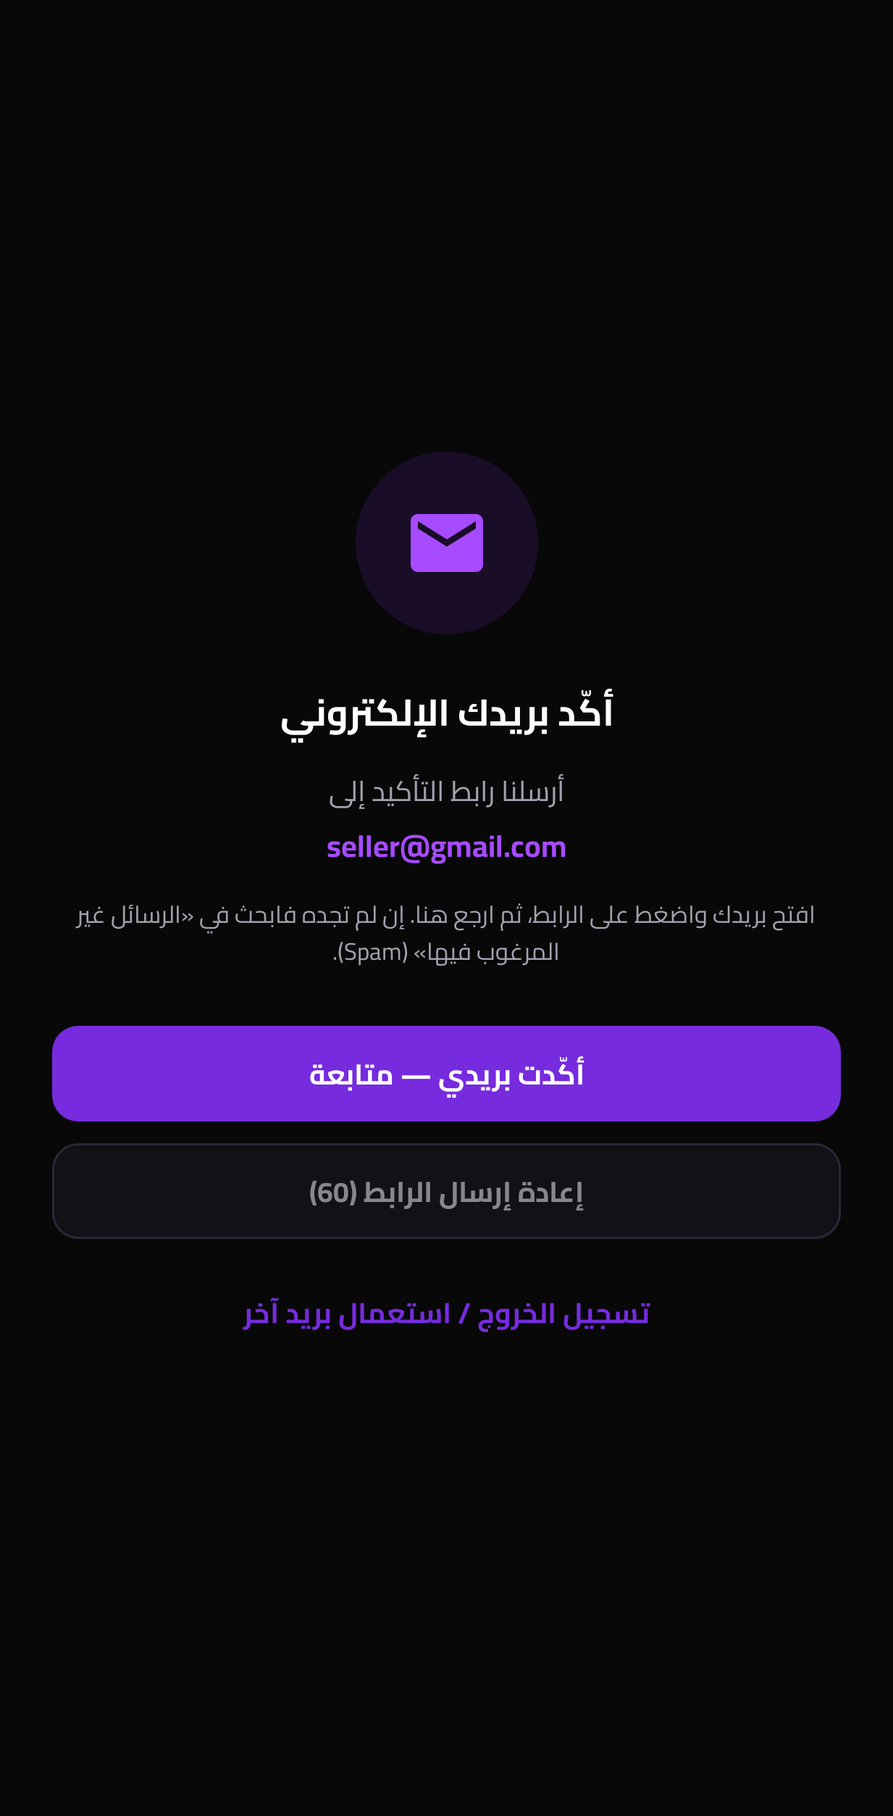
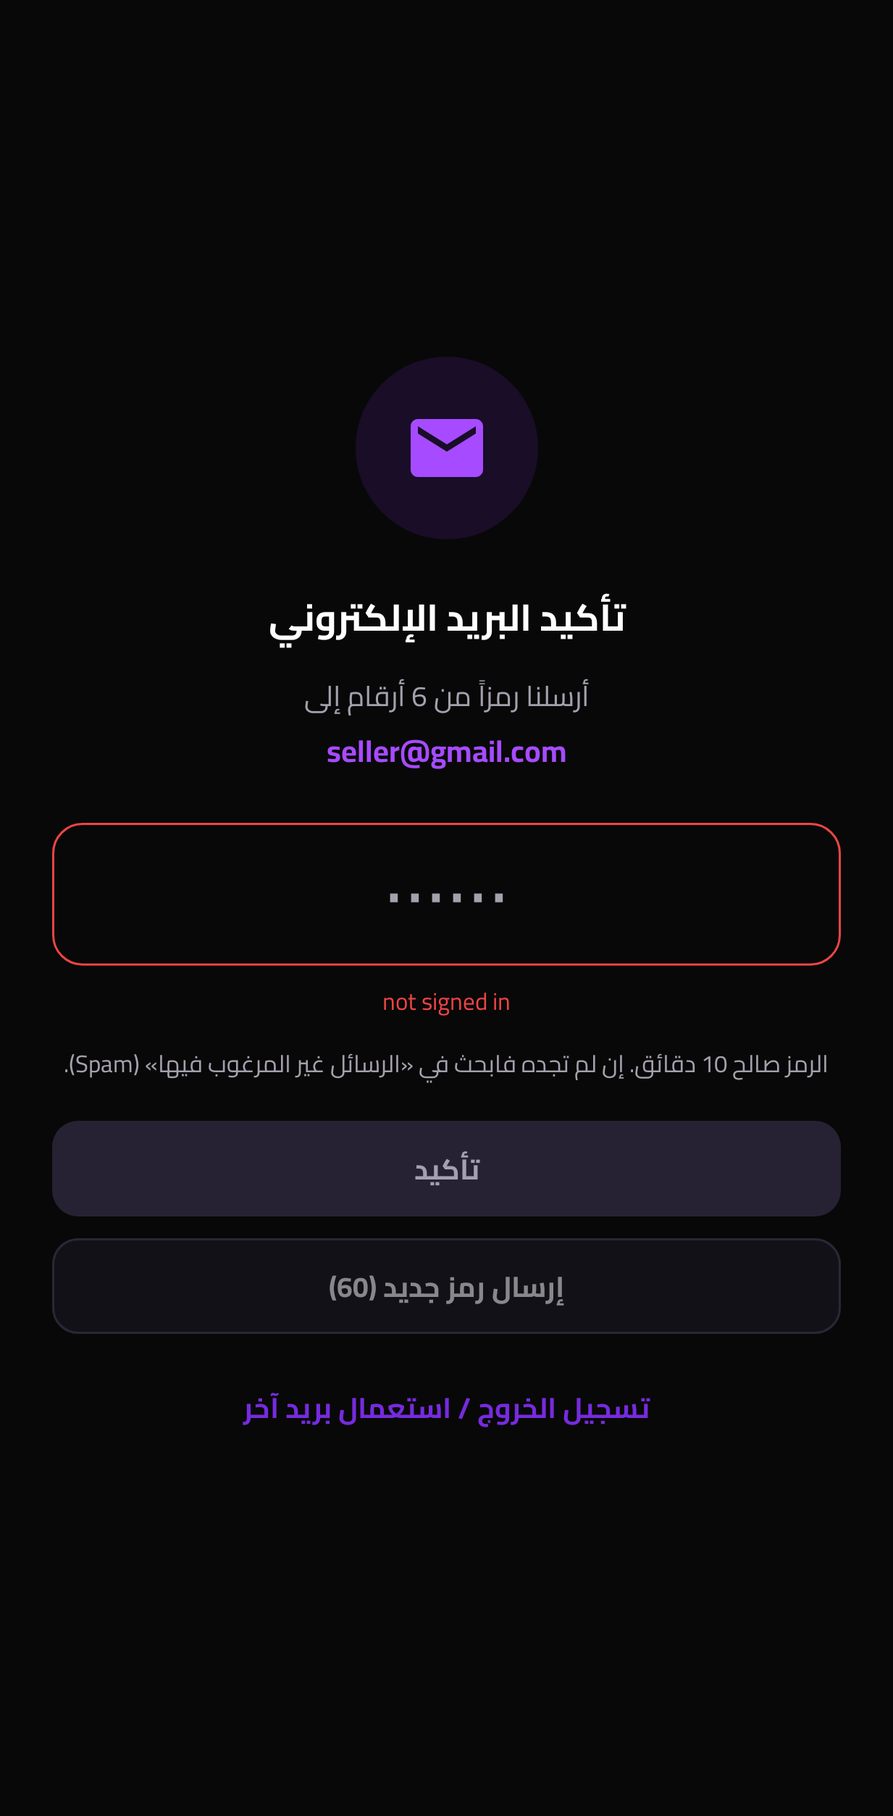
6-digit e-mail verification code at sign-up (Brevo + worker), link fallback
- Worker /otp/send and /otp/verify: code hashed in emailOtps/{uid}, 10 min TTL,
  5 attempts, 1/min and 6/hour send limits, recipient taken from the verified ID
  token; on success the Firebase account is marked verified (Identity Toolkit).
- App: code entry screen (auto-submit), resend with cooldown; falls back to the
  Firebase link when the mail service is not configured.
- setup-email.sh for Cloud Shell; 23 worker tests.

Claude-Session: https://claude.ai/code/session_01Dmminv6J6ivYhR2jtxdx3e

diff --git a/app/src/main/java/com/medk/app/ui/auth/AuthScreens.kt b/app/src/main/java/com/medk/app/ui/auth/AuthScreens.kt
@@ -384,7 +384,10 @@ fun AuthFailedScreen(message: String, onRetry: () -> Unit, onSignOut: () -> Unit
 }
 
 
-/** After e-mail sign-up: the app stays locked until the link in the confirmation e-mail is opened. */
+/**
+ * After e-mail sign-up: a 6-digit code is e-mailed; the app stays locked until it is typed.
+ * (Falls back to the Firebase confirmation link when the server has no mail service.)
+ */
 @Composable
 fun VerifyEmailScreen(email: String) {
     val c = MedkApp.container
@@ -392,45 +395,85 @@ fun VerifyEmailScreen(email: String) {
     val toast = com.medk.app.ui.components.LocalToast.current
     var busy by remember { mutableStateOf(false) }
     var cooldown by remember { mutableStateOf(60) }
-    LaunchedEffect(Unit) {   // the account unlocks by itself a few seconds after the link is opened
+    var codeMode by remember { mutableStateOf<Boolean?>(null) }   // null = sending
+    var code by remember { mutableStateOf("") }
+    var error by remember { mutableStateOf<String?>(null) }
+    fun send() {
+        scope.launch {
+            codeMode = null
+            runCatching { c.auth.sendEmailCode() }
+                .onSuccess { codeMode = it; cooldown = 60; error = null }
+                .onFailure { codeMode = true; error = it.friendly() }
+        }
+    }
+    fun confirm() {
+        if (code.length != 6 || busy) return
+        busy = true
+        scope.launch {
+            runCatching { c.auth.confirmEmailCode(code) }.onFailure { error = it.friendly(); code = "" }
+            busy = false
+        }
+    }
+    LaunchedEffect(Unit) { send() }
+    LaunchedEffect(Unit) {
         while (true) {
             kotlinx.coroutines.delay(1000)
             if (cooldown > 0) cooldown--
-            if (cooldown % 5 == 0) runCatching { c.auth.checkEmailVerified() }
+            if (codeMode == false && cooldown % 5 == 0) runCatching { c.auth.checkEmailVerified() }   // link mode
         }
     }
-    Column(Modifier.fillMaxSize().background(MaterialTheme.colorScheme.background).statusBarsPadding().navigationBarsPadding()
+    Column(Modifier.fillMaxSize().background(MaterialTheme.colorScheme.background).statusBarsPadding().navigationBarsPadding().imePadding()
         .verticalScroll(rememberScrollState()).padding(24.dp), verticalArrangement = Arrangement.Center,
         horizontalAlignment = Alignment.CenterHorizontally) {
         Box(Modifier.size(84.dp).clip(CircleShape).background(MedkColors.Purple.copy(.15f)), contentAlignment = Alignment.Center) {
             Icon(Icons.Filled.Email, null, tint = MedkColors.Violet, modifier = Modifier.size(40.dp))
         }
         Spacer(Modifier.height(20.dp))
-        Text("أكّد بريدك الإلكتروني", style = MaterialTheme.typography.headlineSmall)
+        Text("تأكيد البريد الإلكتروني", style = MaterialTheme.typography.headlineSmall)
         Spacer(Modifier.height(8.dp))
-        Text("أرسلنا رابط التأكيد إلى", style = MaterialTheme.typography.bodyMedium, color = MaterialTheme.colorScheme.onSurfaceVariant)
+        Text(if (codeMode == false) "أرسلنا رابط التأكيد إلى" else "أرسلنا رمزاً من 6 أرقام إلى",
+            style = MaterialTheme.typography.bodyMedium, color = MaterialTheme.colorScheme.onSurfaceVariant)
         Text(email, style = MaterialTheme.typography.titleMedium, color = MedkColors.Violet)
-        Spacer(Modifier.height(8.dp))
-        Text("افتح بريدك واضغط على الرابط، ثم ارجع هنا. إن لم تجده فابحث في «الرسائل غير المرغوب فيها» (Spam).",
-            style = MaterialTheme.typography.bodySmall, color = MaterialTheme.colorScheme.onSurfaceVariant,
-            textAlign = androidx.compose.ui.text.style.TextAlign.Center)
-        Spacer(Modifier.height(24.dp))
-        PrimaryButton("أكّدت بريدي — متابعة", {
-            busy = true
-            scope.launch {
-                val ok = runCatching { c.auth.checkEmailVerified() }.getOrElse { toast(it.friendly()); null }
-                if (ok == false) toast("لم يتم التأكيد بعد. افتح الرابط في البريد أولاً.")
-                busy = false
+        Spacer(Modifier.height(20.dp))
+        when (codeMode) {
+            null -> androidx.compose.material3.CircularProgressIndicator(color = MedkColors.Violet)
+            true -> {
+                androidx.compose.material3.OutlinedTextField(
+                    value = code,
+                    onValueChange = { v -> code = v.filter { it.isDigit() }.take(6); error = null; if (code.length == 6) confirm() },
+                    modifier = Modifier.fillMaxWidth(), singleLine = true, enabled = !busy,
+                    placeholder = { Text("• • • • • •", Modifier.fillMaxWidth(), textAlign = androidx.compose.ui.text.style.TextAlign.Center) },
+                    textStyle = MaterialTheme.typography.headlineMedium.copy(textAlign = androidx.compose.ui.text.style.TextAlign.Center,
+                        letterSpacing = androidx.compose.ui.unit.TextUnit(10f, androidx.compose.ui.unit.TextUnitType.Sp)),
+                    keyboardOptions = androidx.compose.foundation.text.KeyboardOptions(keyboardType = androidx.compose.ui.text.input.KeyboardType.NumberPassword),
+                    isError = error != null, shape = RoundedCornerShape(14.dp),
+                )
+                error?.let { Text(it, color = MedkColors.Danger, style = MaterialTheme.typography.bodySmall, modifier = Modifier.padding(top = 6.dp)) }
+                Spacer(Modifier.height(8.dp))
+                Text("الرمز صالح 10 دقائق. إن لم تجده فابحث في «الرسائل غير المرغوب فيها» (Spam).",
+                    style = MaterialTheme.typography.bodySmall, color = MaterialTheme.colorScheme.onSurfaceVariant,
+                    textAlign = androidx.compose.ui.text.style.TextAlign.Center)
+                Spacer(Modifier.height(16.dp))
+                PrimaryButton("تأكيد", { confirm() }, loading = busy, enabled = code.length == 6)
             }
-        }, loading = busy)
+            false -> {
+                Text("افتح بريدك واضغط على الرابط، ثم ارجع هنا. إن لم تجده فابحث في «الرسائل غير المرغوب فيها» (Spam).",
+                    style = MaterialTheme.typography.bodySmall, color = MaterialTheme.colorScheme.onSurfaceVariant,
+                    textAlign = androidx.compose.ui.text.style.TextAlign.Center)
+                Spacer(Modifier.height(16.dp))
+                PrimaryButton("أكّدت بريدي — متابعة", {
+                    busy = true
+                    scope.launch {
+                        val ok = runCatching { c.auth.checkEmailVerified() }.getOrElse { toast(it.friendly()); null }
+                        if (ok == false) toast("لم يتم التأكيد بعد. افتح الرابط في البريد أولاً.")
+                        busy = false
+                    }
+                }, loading = busy)
+            }
+        }
         Spacer(Modifier.height(10.dp))
-        SecondaryButton(if (cooldown > 0) "إعادة إرسال الرابط (${cooldown})" else "إعادة إرسال الرابط", {
-            scope.launch {
-                runCatching { c.auth.resendVerification() }
-                    .onSuccess { toast("تم إرسال رابط جديد إلى $email"); cooldown = 60 }
-                    .onFailure { toast(it.friendly()) }
-            }
-        }, enabled = cooldown == 0)
+        SecondaryButton(if (cooldown > 0) "إرسال رمز جديد (${cooldown})" else "إرسال رمز جديد", { code = ""; send() },
+            enabled = cooldown == 0 && codeMode != null)
         Spacer(Modifier.height(10.dp))
         TextButton({ scope.launch { c.auth.signOut(c.context) } }) { Text("تسجيل الخروج / استعمال بريد آخر") }
     }

diff --git a/firebase/push-worker/src/index.js b/firebase/push-worker/src/index.js
@@ -21,6 +21,15 @@ export default {
   async fetch(req, env, ctx) {
     const url = new URL(req.url);
     if (req.method === "GET" && url.pathname === "/") return json({ ok: true, service: "medk-push" });
+    if (req.method === "POST" && (url.pathname === "/otp/send" || url.pathname === "/otp/verify")) {
+      try {
+        if (!env.SA_KEY || !env.PROJECT_ID) throw new HttpError(500, "server_not_configured");
+        const user = await verifyIdTokenFull((req.headers.get("authorization") || "").replace(/^Bearer\s+/i, ""), env.PROJECT_ID);
+        const body = await req.json().catch(() => ({}));
+        const fs = new Firestore(env);
+        return json(url.pathname === "/otp/send" ? await sendOtp(env, fs, user) : await verifyOtp(env, fs, user, body));
+      } catch (e) { return json({ error: e.message || String(e) }, e.status || 500); }
+    }
     if (req.method !== "POST" || url.pathname !== "/notify") return json({ error: "not_found" }, 404);
     try {
       if (!env.SA_KEY || !env.PROJECT_ID) throw new HttpError(500, "server_not_configured");
@@ -240,7 +249,8 @@ const b64urlJson = (o) => b64url(new TextEncoder().encode(JSON.stringify(o)));
 const fromB64url = (s) => Uint8Array.from(atob(s.replace(/-/g, "+").replace(/_/g, "/").padEnd(Math.ceil(s.length / 4) * 4, "=")), (c) => c.charCodeAt(0));
 
 let jwksCache = { at: 0, keys: [] };
-async function verifyIdToken(token, projectId) {
+async function verifyIdToken(token, projectId) { return (await verifyIdTokenFull(token, projectId)).sub; }
+async function verifyIdTokenFull(token, projectId) {
   const parts = (token || "").split(".");
   if (parts.length !== 3) throw new HttpError(401, "unauthenticated");
   let header, payload;
@@ -260,7 +270,7 @@ async function verifyIdToken(token, projectId) {
   const now = Math.floor(Date.now() / 1000);
   if (!ok || payload.aud !== projectId || payload.iss !== `https://securetoken.google.com/${projectId}` ||
       !payload.sub || payload.exp < now || payload.iat > now + 300) throw new HttpError(401, "unauthenticated");
-  return payload.sub;
+  return payload;
 }
 
 let tokenCache = { value: null, exp: 0 };
@@ -270,7 +280,7 @@ async function accessToken(env) {
   const now = Math.floor(Date.now() / 1000);
   const unsigned = `${b64urlJson({ alg: "RS256", typ: "JWT" })}.${b64urlJson({
     iss: sa.client_email, aud: "https://oauth2.googleapis.com/token", iat: now, exp: now + 3600,
-    scope: "https://www.googleapis.com/auth/datastore https://www.googleapis.com/auth/firebase.messaging",
+    scope: "https://www.googleapis.com/auth/datastore https://www.googleapis.com/auth/firebase.messaging https://www.googleapis.com/auth/identitytoolkit",
   })}`;
   const pem = sa.private_key.replace(/-----[^-]+-----/g, "").replace(/\s+/g, "");
   const key = await crypto.subtle.importKey("pkcs8", Uint8Array.from(atob(pem), (c) => c.charCodeAt(0)),
@@ -285,4 +295,75 @@ async function accessToken(env) {
   if (!j.access_token) throw new HttpError(502, "google_auth_failed");
   tokenCache = { value: j.access_token, exp: Date.now() + (j.expires_in || 3600) * 1000 };
   return j.access_token;
+}
+
+// ============================================================================================== e-mail code (OTP)
+//
+// Sign-up with e-mail + password: a 6-digit code is e-mailed (Brevo, free tier) and, once typed in the app, the
+// server marks the Firebase account as verified (Identity Toolkit admin API). Codes are stored hashed in
+// emailOtps/{uid} (no client access), expire after 10 minutes, allow 5 attempts, and sending is rate-limited.
+// Secrets: BREVO_API_KEY, MAIL_FROM (verified sender address in Brevo).
+
+const OTP_TTL_MS = 10 * 60 * 1000, OTP_COOLDOWN_MS = 55 * 1000, OTP_MAX_PER_HOUR = 6, OTP_MAX_ATTEMPTS = 5;
+
+async function sha256Hex(text) {
+  const buf = await crypto.subtle.digest("SHA-256", new TextEncoder().encode(text));
+  return [...new Uint8Array(buf)].map((b) => b.toString(16).padStart(2, "0")).join("");
+}
+
+async function sendOtp(env, fs, user) {
+  if (!env.BREVO_API_KEY || !env.MAIL_FROM) throw new HttpError(503, "otp_not_configured");
+  if (user.email_verified) return { ok: true, verified: true };
+  const email = String(user.email || "");
+  if (!email) throw new HttpError(400, "no_email");
+  const path = `emailOtps/${user.sub}`;
+  const prev = await fs.get(path);
+  const now = Date.now();
+  if (prev && now - Date.parse(prev.sentAt || 0) < OTP_COOLDOWN_MS) throw new HttpError(429, "otp_wait");
+  const windowStart = prev && now - Date.parse(prev.windowStart || 0) < 3600_000 ? prev.windowStart : new Date(now).toISOString();
+  const sends = prev && prev.windowStart === windowStart ? Number(prev.sends || 0) : 0;
+  if (sends >= OTP_MAX_PER_HOUR) throw new HttpError(429, "otp_too_many");
+  const code = String(crypto.getRandomValues(new Uint32Array(1))[0] % 1000000).padStart(6, "0");
+  await fs.commit([{ update: { name: fs.name(path), fields: encodeFields({
+    hash: await sha256Hex(`${user.sub}:${code}`), email, expiresAt: new Date(now + OTP_TTL_MS).toISOString(),
+    attempts: 0, sentAt: new Date(now).toISOString(), windowStart, sends: sends + 1 }) } }]);
+  const r = await fetch("https://api.brevo.com/v3/smtp/email", {
+    method: "POST",
+    headers: { "api-key": env.BREVO_API_KEY, "content-type": "application/json", accept: "application/json" },
+    body: JSON.stringify({
+      sender: { name: "MED-K", email: env.MAIL_FROM }, to: [{ email }],
+      subject: `رمز التحقق MED-K: ${code}`,
+      htmlContent: `<div dir="rtl" style="font-family:Tahoma,Arial,sans-serif;background:#0a0a0c;color:#fff;padding:28px;border-radius:14px;max-width:460px;margin:auto">
+<h2 style="margin:0 0 8px;color:#a855f7">MED-K</h2><p style="margin:0 0 18px;color:#ccc">رمز تأكيد بريدك الإلكتروني:</p>
+<div style="font-size:34px;letter-spacing:10px;font-weight:bold;background:#1c1530;border-radius:10px;padding:14px;text-align:center">${code}</div>
+<p style="color:#999;font-size:13px;margin-top:18px">صالح لمدة 10 دقائق. إن لم تطلب هذا الرمز فتجاهل الرسالة.</p></div>`,
+      textContent: `رمز التحقق MED-K: ${code} (صالح 10 دقائق)`,
+    }),
+  });
+  if (!r.ok) throw new HttpError(502, `mail_${r.status}`);
+  return { ok: true, sent: true };
+}
+
+async function verifyOtp(env, fs, user, body) {
+  if (user.email_verified) return { ok: true, verified: true };
+  const code = String(body.code || "").trim();
+  if (!/^\d{6}$/.test(code)) throw new HttpError(400, "otp_invalid");
+  const path = `emailOtps/${user.sub}`;
+  const o = await fs.get(path);
+  if (!o || o.email !== user.email) throw new HttpError(400, "otp_expired");
+  if (Date.now() > Date.parse(o.expiresAt)) throw new HttpError(400, "otp_expired");
+  if (Number(o.attempts || 0) >= OTP_MAX_ATTEMPTS) throw new HttpError(429, "otp_locked");
+  if ((await sha256Hex(`${user.sub}:${code}`)) !== o.hash) {
+    await fs.commit([{ update: { name: fs.name(path), fields: encodeFields({}) }, updateMask: { fieldPaths: [] },
+      updateTransforms: [{ fieldPath: "attempts", increment: { integerValue: "1" } }] }]);
+    throw new HttpError(400, "otp_invalid");
+  }
+  const at = await accessToken(env);
+  const r = await fetch(`https://identitytoolkit.googleapis.com/v1/projects/${env.PROJECT_ID}/accounts:update`, {
+    method: "POST", headers: { authorization: `Bearer ${at}`, "content-type": "application/json" },
+    body: JSON.stringify({ localId: user.sub, emailVerified: true }),
+  });
+  if (!r.ok) throw new HttpError(502, `auth_${r.status}`);
+  await fs.delete(path).catch(() => {});
+  return { ok: true, verified: true };
 }

diff --git a/app/src/main/java/com/medk/app/data/AuthRepository.kt b/app/src/main/java/com/medk/app/data/AuthRepository.kt
@@ -194,8 +194,7 @@ open class AuthRepository(private val c: AppContainer) {
         val auth = c.firebaseAuth ?: error("Firebase not configured")
         val result = auth.createUserWithEmailAndPassword(email.trim(), password).await()
         result.user?.updateProfile(userProfileChangeRequest { displayName = name.trim() })?.await()
-        runCatching { result.user?.sendEmailVerification()?.await() }
-        finishSignIn(name.trim())
+        finishSignIn(name.trim())   // → VerifyEmail screen, which e-mails the 6-digit code
     }
 
     open suspend fun sendPasswordReset(email: String) {
@@ -258,6 +257,24 @@ open class AuthRepository(private val c: AppContainer) {
 
     open suspend fun resendVerification() {
         c.firebaseAuth?.currentUser?.sendEmailVerification()?.await() ?: error("not signed in")
+    }
+
+    /**
+     * E-mails a 6-digit code (MED-K server). Returns true in code mode; false when the server has no mail service,
+     * in which case the classic Firebase confirmation link is sent instead.
+     */
+    open suspend fun sendEmailCode(): Boolean = try {
+        c.push.post("/otp/send", org.json.JSONObject()); true
+    } catch (e: Exception) {
+        val m = e.message.orEmpty()
+        if (m.contains("otp_not_configured") || m.contains("server_not_configured") || m.contains("not_found")) { resendVerification(); false }
+        else throw e
+    }
+
+    /** Checks the typed code on the server, which marks the account verified; then enters the app. */
+    open suspend fun confirmEmailCode(code: String) {
+        c.push.post("/otp/verify", org.json.JSONObject().put("code", code.trim()))
+        if (!checkEmailVerified()) error("otp_invalid")
     }
 
     private suspend fun finishSignIn(name: String?) {

diff --git a/app/src/main/java/com/medk/app/data/PushRepository.kt b/app/src/main/java/com/medk/app/data/PushRepository.kt
@@ -86,5 +86,27 @@ open class PushRepository(private val c: AppContainer) {
         }
     }
 
+    /** Authenticated call to the MED-K server. Throws with the server's error code (e.g. "otp_invalid"). */
+    open suspend fun post(path: String, body: JSONObject): JSONObject {
+        if (!enabled) error("server_not_configured")
+        val base = serverUrl ?: c.firestore.document("config/push").get().await().getString("url")?.trimEnd('/')?.also { serverUrl = it }
+            ?: error("otp_not_configured")
+        val idToken = c.firebaseAuth?.currentUser?.getIdToken(false)?.await()?.token ?: error("unauthenticated")
+        return withContext(Dispatchers.IO) {
+            val conn = URL("$base$path").openConnection() as HttpURLConnection
+            try {
+                conn.requestMethod = "POST"; conn.connectTimeout = 15_000; conn.readTimeout = 30_000; conn.doOutput = true
+                conn.setRequestProperty("Content-Type", "application/json")
+                conn.setRequestProperty("Authorization", "Bearer $idToken")
+                conn.outputStream.use { it.write(body.toString().toByteArray()) }
+                val code = conn.responseCode
+                val text = (if (code in 200..299) conn.inputStream else conn.errorStream)?.bufferedReader()?.use { it.readText() }.orEmpty()
+                val j = runCatching { JSONObject(text) }.getOrElse { JSONObject() }
+                if (code !in 200..299) error(j.optString("error").ifBlank { "http_$code" })
+                j
+            } finally { conn.disconnect() }
+        }
+    }
+
     companion object { private const val TAG = "MedkPush" }
 }

diff --git a/app/src/main/java/com/medk/app/core/Util.kt b/app/src/main/java/com/medk/app/core/Util.kt
@@ -45,6 +45,13 @@ fun Throwable.friendly(): String {
             m.contains("forbidden") || m.contains("owner only") ->
             "ليست لديك صلاحية لتنفيذ هذا الإجراء."
         m.contains("unauthenticated") || m.contains("401") -> "انتهت الجلسة، يرجى تسجيل الدخول مجدداً."
+        m.contains("not signed in") -> "انتهت الجلسة، يرجى تسجيل الدخول مجدداً."
+        m.contains("otp_invalid") -> "الرمز غير صحيح. تحقق منه وأعد المحاولة."
+        m.contains("otp_expired") -> "انتهت صلاحية الرمز. اضغط «إرسال رمز جديد»."
+        m.contains("otp_locked") -> "محاولات خاطئة كثيرة. اطلب رمزاً جديداً."
+        m.contains("otp_wait") -> "انتظر دقيقة قبل طلب رمز جديد."
+        m.contains("otp_too_many") -> "طلبت رموزاً كثيرة. حاول بعد ساعة."
+        m.contains("mail_") -> "تعذر إرسال البريد الآن. حاول بعد قليل."
         m.contains("bad_email") -> "البريد الإلكتروني غير صحيح."
         m.contains("commission_range") -> "النسبة يجب أن تكون بين 0 و 50%."
         m.contains("requires an index") || m.contains("index is currently building") ->

diff --git a/README.md b/README.md
@@ -168,3 +168,11 @@ rm -rf medk-app && git clone -b ccr-d079e25d-odpocv https://github.com/ya3in3335
 ```bash
 rm -rf medk-app && git clone -b ccr-d079e25d-odpocv https://github.com/ya3in3335/M medk-app && CF_TOKEN=... OWNER_EMAILS=you@mail.com bash medk-app/firebase/update-server.sh <PROJECT_ID>
 ```
+
+## تأكيد البريد برمز من 6 أرقام
+
+عند إنشاء حساب بالبريد وكلمة المرور يصل **رمز من 6 أرقام** (عبر Brevo، مجاني 300 رسالة/يوم)، ويبقى التطبيق مقفلاً حتى يُكتب الرمز. الخادم يخزّن الرمز مشفَّراً، صالح 10 دقائق، 5 محاولات، ومهلة دقيقة بين كل إرسال؛ عند صحته يؤكد الخادم الحساب في Firebase. بدون Brevo يعود التطبيق تلقائياً إلى رابط التأكيد.
+
+```bash
+rm -rf medk-app && git clone -b ccr-d079e25d-odpocv https://github.com/ya3in3335/M medk-app && CF_TOKEN=... BREVO_KEY=... MAIL_FROM=you@gmail.com OWNER_EMAILS=you@mail.com bash medk-app/firebase/setup-email.sh <PROJECT_ID>
+```
